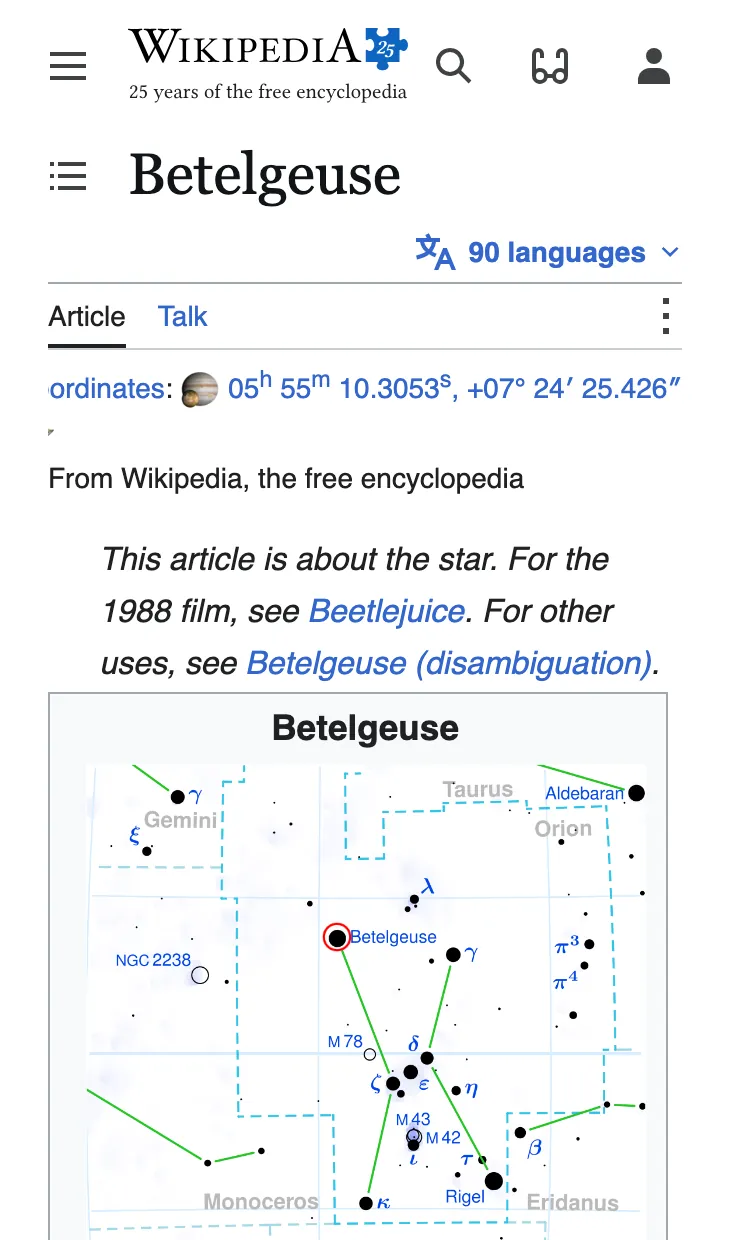
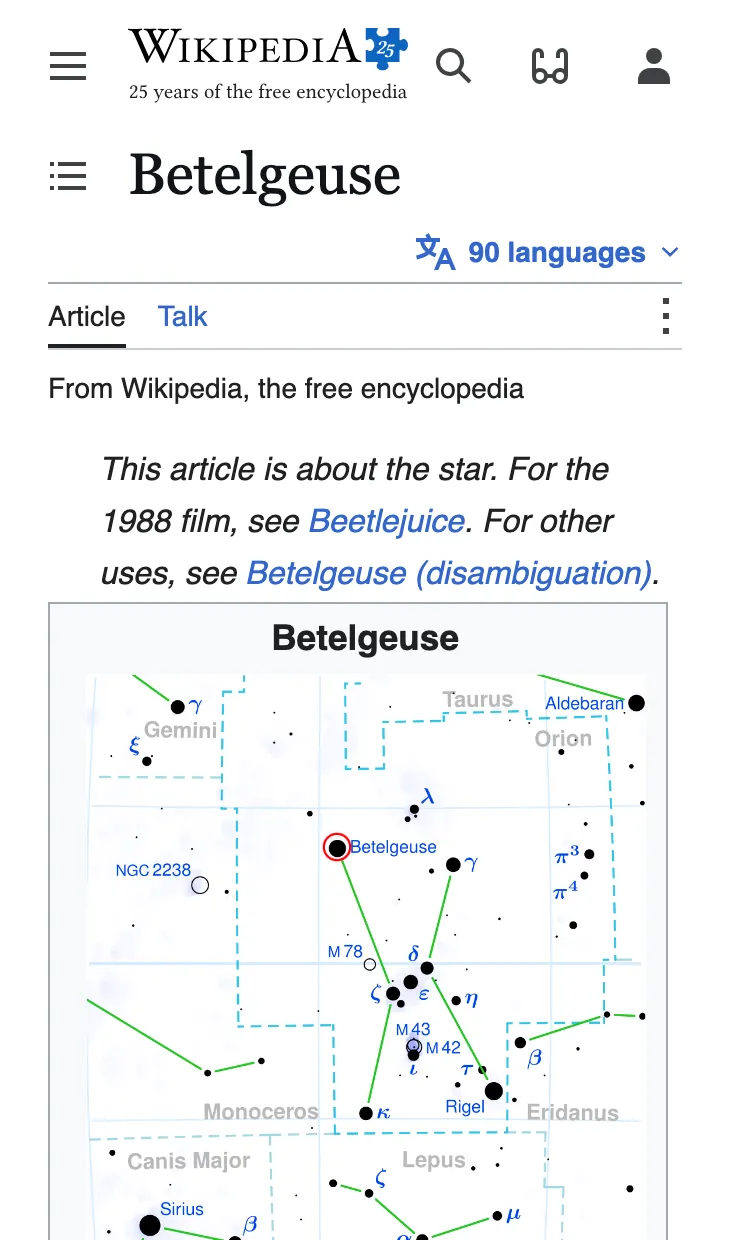
fix(website): second review round, and credits behind a peek
- Privacy lede: no account and no telemetry, and your history, tabs and
  passwords stay on your Mac (the Mac peek lists what does go online).
- Hero on a phone: the page box starts left of the card by its
  translate, so the shot is offset by the same amount and starts at the
  card's edge. Measured at 390x844: card x 102.25, shot box x 74.39,
  background-position 27.86px, light and dark.
- Out of the way: html.oow-on keyed off seen.window, which no longer
  exists. It now keys off the outro's id, so it clears at Native
  (1440x900, scrollY 2968), and the left-edge sitebar opens there.
- Shots recaptured with Wikipedia's coordinates, WikiMiniAtlas and
  status indicators hidden (so no Jupiter_and_moon, WMA or featured-star
  icons, and Betelgeuse's clipped "Coordinates" line is gone), and with
  GitHub's counts and licence line hidden. og-home.png re-rendered.
- Copy Page Link (⇧⌘C) and the command bar's Copy Page Link named as the
  app names them, Copy Link for the sidebar menu. featureList matches.
- ⇧⌘D in Apple's modifier order.
- The Macs' desktop uses the ember backdrop in place of aurora's violet.
- Install steps 2 to 4 load lazily.
- Credits move from the footer to a Credits peek (footer link and a
  command-bar row): pages, Wikipedia articles, OSM and each Commons image
  with author, licence and file page.

Measured: node build.mjs --check passes. JS 23.1 KB gz of 24, CSS 23.0
of 25, index.html 19.4 of 30.

diff --git a/website/src/partials/10-templates.html b/website/src/partials/10-templates.html
@@ -216,6 +216,37 @@
     <li>Copyright © 2026 Fin.</li>
   </ul>
 </template>
+<template id="peek-credits">
+  <h2 id="peek-title">Credits</h2>
+  <ul class="peek-list">
+    <li>
+      The pages in the window are real, captured Nov 2026 and cropped to fit.
+      Site names and icons belong to their owners, who don’t endorse Artemis.
+    </li>
+    <li>
+      Wikipedia text under
+      <a href="https://creativecommons.org/licenses/by-sa/4.0/">CC BY-SA 4.0</a>
+      comes from the
+      <a href="https://en.wikipedia.org/wiki/Orion_(constellation)">Orion</a>,
+      <a href="https://en.wikipedia.org/wiki/Betelgeuse">Betelgeuse</a>,
+      <a href="https://en.wikipedia.org/wiki/Sourdough">Sourdough</a> and
+      <a href="https://en.wikipedia.org/wiki/Isle_of_Skye">Isle of Skye</a>
+      articles.
+    </li>
+    <li>
+      Map data ©
+      <a href="https://www.openstreetmap.org/copyright">OpenStreetMap contributors</a>.
+    </li>
+    <li><a href="https://commons.wikimedia.org/wiki/File:Orion_IAU.svg">Orion chart</a> by IAU and Sky &amp; Telescope, <a href="https://creativecommons.org/licenses/by/3.0/">CC BY 3.0</a>.</li>
+    <li><a href="https://commons.wikimedia.org/wiki/File:OrionCC.jpg">Orion photo</a> by Till Credner, <a href="https://creativecommons.org/licenses/by-sa/3.0/">CC BY-SA 3.0</a>.</li>
+    <li><a href="https://commons.wikimedia.org/wiki/File:Orion_constellation_map.svg">Orion map</a> by Torsten Bronger and Kxx, <a href="https://creativecommons.org/licenses/by-sa/3.0/">CC BY-SA 3.0</a>.</li>
+    <li><a href="https://commons.wikimedia.org/wiki/File:Sourdough_bread_loaf.jpg">Sourdough loaf</a> by Nhall0901, <a href="https://creativecommons.org/publicdomain/zero/1.0/">CC0</a>.</li>
+    <li><a href="https://commons.wikimedia.org/wiki/File:Flag_of_the_Isle_of_Skye.svg">Skye flag</a> by Hogweard, public domain.</li>
+    <li><a href="https://commons.wikimedia.org/wiki/File:A_misty_morning_in_Portree_-_geograph.org.uk_-_3986755_(cropped).jpg">Portree</a> by John Allan, <a href="https://creativecommons.org/licenses/by-sa/2.0/">CC BY-SA 2.0</a>.</li>
+    <li><a href="https://commons.wikimedia.org/wiki/File:Cattle_near_Neist_Point_Lighthouse.jpg">Cattle near Neist Point</a> by JoachimKohler-HB, <a href="https://creativecommons.org/licenses/by-sa/4.0/">CC BY-SA 4.0</a>.</li>
+    <li><a href="https://commons.wikimedia.org/wiki/File:Isle_of_Skye_-_Old_Man_of_Storr_-_2020_-_by_Sanshiro_Kubota.jpg">Old Man of Storr</a> by Sanshiro Kubota, <a href="https://creativecommons.org/licenses/by/2.0/">CC BY 2.0</a>.</li>
+  </ul>
+</template>
 <!-- @if DOWNLOAD_URL -->
 <template id="peek-get">
   <h2 id="peek-title">Artemis is downloading</h2>

diff --git a/website/src/partials/09-footer.html b/website/src/partials/09-footer.html
@@ -8,36 +8,8 @@
     <a href="https://discord.gg/Tn8CcPdt2x">Discord</a> for questions and ideas.
   </p>
   <p>
-    The pages in the window are real, captured Nov 2026 and cropped to fit.
-    Wikipedia text under
-    <a href="https://creativecommons.org/licenses/by-sa/4.0/">CC BY-SA 4.0</a>
-    comes from the
-    <a href="https://en.wikipedia.org/wiki/Orion_(constellation)">Orion</a>,
-    <a href="https://en.wikipedia.org/wiki/Betelgeuse">Betelgeuse</a>,
-    <a href="https://en.wikipedia.org/wiki/Sourdough">Sourdough</a> and
-    <a href="https://en.wikipedia.org/wiki/Isle_of_Skye">Isle of Skye</a>
-    articles. Map data ©
-    <a href="https://www.openstreetmap.org/copyright">OpenStreetMap contributors</a>.
-    Site names and icons belong to their owners, who don’t endorse Artemis.
-  </p>
-  <p>
-    Images in those articles:
-    <a href="https://commons.wikimedia.org/wiki/File:Orion_IAU.svg">Orion chart</a> by IAU and Sky &amp; Telescope,
-    <a href="https://creativecommons.org/licenses/by/3.0/">CC BY 3.0</a>.
-    <a href="https://commons.wikimedia.org/wiki/File:OrionCC.jpg">Orion photo</a> by Till Credner,
-    <a href="https://creativecommons.org/licenses/by-sa/3.0/">CC BY-SA 3.0</a>.
-    <a href="https://commons.wikimedia.org/wiki/File:Orion_constellation_map.svg">Orion map</a> by Torsten Bronger
-    and Kxx, <a href="https://creativecommons.org/licenses/by-sa/3.0/">CC BY-SA 3.0</a>.
-    <a href="https://commons.wikimedia.org/wiki/File:Sourdough_bread_loaf.jpg">Sourdough loaf</a> by Nhall0901,
-    <a href="https://creativecommons.org/publicdomain/zero/1.0/">CC0</a>.
-    <a href="https://commons.wikimedia.org/wiki/File:Flag_of_the_Isle_of_Skye.svg">Skye flag</a> by Hogweard,
-    public domain.
-    <a href="https://commons.wikimedia.org/wiki/File:A_misty_morning_in_Portree_-_geograph.org.uk_-_3986755_(cropped).jpg">Portree</a>
-    by John Allan, <a href="https://creativecommons.org/licenses/by-sa/2.0/">CC BY-SA 2.0</a>.
-    <a href="https://commons.wikimedia.org/wiki/File:Cattle_near_Neist_Point_Lighthouse.jpg">Cattle near Neist Point</a>
-    by JoachimKohler-HB, <a href="https://creativecommons.org/licenses/by-sa/4.0/">CC BY-SA 4.0</a>.
-    <a href="https://commons.wikimedia.org/wiki/File:Isle_of_Skye_-_Old_Man_of_Storr_-_2020_-_by_Sanshiro_Kubota.jpg">Old Man of Storr</a>
-    by Sanshiro Kubota, <a href="https://creativecommons.org/licenses/by/2.0/">CC BY 2.0</a>.
+    The pages in the window are real.
+    <a href="#peek-credits" data-peek="credits">Credits</a>
   </p>
   <p>© {{YEAR}} Fin.</p>
   <p class="foot-hint fine-only">

diff --git a/website/src/partials/06-privacy.html b/website/src/partials/06-privacy.html
@@ -11,8 +11,8 @@
       <h2 id="privacy-h">Private by default.</h2>
       <p class="lede">
         Ads and trackers are blocked from the first launch, and fingerprints are
-        scrambled site by site. There’s no account and no telemetry, and your
-        browsing stays on your Mac.
+        scrambled site by site. There’s no account and no telemetry. Your
+        history, tabs and passwords stay on your Mac.
       </p>
     </header>
     <div class="prv-fp" data-nosnippet>
@@ -62,11 +62,11 @@
         </dd>
       </div>
       <div>
-        <dt>Copy Link</dt>
+        <dt>Copy Page Link</dt>
         <dd>Cleaned</dd>
         <dd class="note">
-          Copy Link (⇧⌘C) drops tracking parameters. So does Copy Link in the
-          sidebar menu and the command bar.
+          Copy Page Link (⇧⌘C) drops tracking parameters. So does Copy Link in
+          the sidebar menu and Copy Page Link in the command bar.
         </dd>
       </div>
       <div>

diff --git a/website/src/partials/_install.html b/website/src/partials/_install.html
@@ -22,6 +22,7 @@
         width="1280"
         height="832"
         alt=""
+        loading="lazy"
     /></picture>
     <h3>Open Artemis</h3>
     <p>
@@ -39,6 +40,7 @@
         width="1280"
         height="832"
         alt=""
+        loading="lazy"
     /></picture>
     <h3>Allow it in System Settings</h3>
     <p>
@@ -51,7 +53,12 @@
       ><source
         srcset="/assets/video/step-4-open.webp"
         media="(prefers-reduced-motion: reduce)" />
-      <img src="/assets/video/step-4-open.avif" width="1280" height="832" alt=""
+      <img
+        src="/assets/video/step-4-open.avif"
+        width="1280"
+        height="832"
+        alt=""
+        loading="lazy"
     /></picture>
     <h3>Confirm, and you’re in</h3>
     <p>

diff --git a/website/src/css/sections/01-hero.css b/website/src/css/sections/01-hero.css
@@ -109,6 +109,9 @@ html.pin .track-oow .stage {
 .track-oow .win[data-sidebar="hidden"] .page {
   translate: 0 0;
 }
+.track-oow .shot {
+  transition: background-position var(--dur-sidebar) var(--spring-sidebar);
+}
 
 @media (max-width: 1023px) {
   .hero-copy {
@@ -135,5 +138,9 @@ html.pin .track-oow .stage {
   }
   .track-oow .stage {
     padding-top: 32px;
+  }
+  /* the page starts left of the card by its translate, so the shot starts that far in */
+  .track-oow .win:not([data-sidebar="hidden"]) .shot {
+    background-position-x: calc((250 + var(--grip) - var(--edge)) / 2 * var(--u));
   }
 }

diff --git a/website/src/css/components.css b/website/src/css/components.css
@@ -1183,7 +1183,7 @@ html.coarse .peek-ctl {
 .desk {
   position: absolute;
   inset: 0;
-  background: url("/assets/spaces/space-aurora-880x592.png") 50% / cover;
+  background: url("/assets/spaces/space-ember-880x592.png") 50% / cover;
 }
 /* a section's Mac: as wide as its island and short enough to see whole, its 1000 × 640 pt window
    drawn at 1.25 screen points a point and centred under the menu bar */

diff --git a/website/src/partials/06-shape.html b/website/src/partials/06-shape.html
@@ -225,7 +225,7 @@
         <label
           ><input type="radio" name="sh" id="sh-bar" />Toolbar<span
             class="sh-cap"
-            >Rather have the address on top? Press ⌘⇧D.</span
+            >Rather have the address on top? Press ⇧⌘D.</span
           ></label
         >
         <label

diff --git a/website/src/js/sections/02-out-of-the-way.js b/website/src/js/sections/02-out-of-the-way.js
@@ -73,7 +73,7 @@ const seen = {};
 function own() {
   root.classList.toggle(
     "oow-on",
-    root.classList.contains("pin") && seen.top && !seen.window,
+    root.classList.contains("pin") && seen.top && !seen[outro.id],
   );
   show();
 }

diff --git a/website/src/js/cmdbar.js b/website/src/js/cmdbar.js
@@ -374,6 +374,7 @@ const ACTIONS = [
     "i-shield",
   ),
   peekRow("The licence", "Open source", "licence", "i-doc"),
+  peekRow("Credits", "Pages and images shown", "credits", "i-doc"),
   {
     kind: "action",
     title: "Source code",
